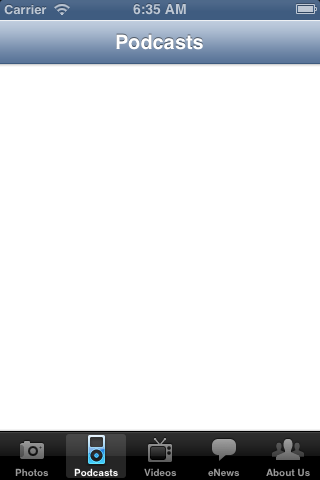
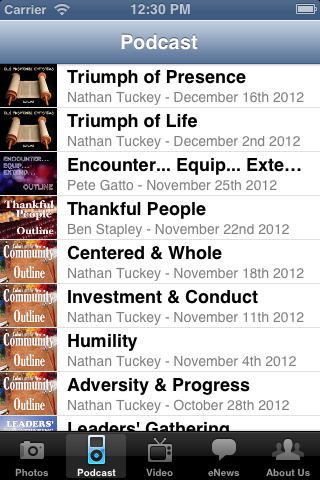
loaded podcasts

diff --git a/South Ridge App iOS/South Ridge App iOS/PodcastViewController.m b/South Ridge App iOS/South Ridge App iOS/PodcastViewController.m
@@ -7,12 +7,14 @@
 //
 
 #import "PodcastViewController.h"
+#import "AFNetworking.h"
 
 @interface PodcastViewController ()
 
 @end
 
 @implementation PodcastViewController
+
 
 - (id)initWithNibName:(NSString *)nibNameOrNil bundle:(NSBundle *)nibBundleOrNil
 {
@@ -28,6 +30,8 @@
 {
     [super viewDidLoad];
 	// Do any additional setup after loading the view, typically from a nib.
+  
+    [self populatePodcasts];
 }
 
 - (void)didReceiveMemoryWarning
@@ -36,4 +40,64 @@
     // Dispose of any resources that can be recreated.
 }
 
+- (UITableViewCell *)tableView:(UITableView *)tableView cellForRowAtIndexPath:(NSIndexPath *)indexPath {
+
+    NSString *cellIdentifier = @"cell";
+    
+    UITableViewCell *cell = [tableView dequeueReusableCellWithIdentifier:cellIdentifier];
+    
+    if (cell == Nil) {
+        cell = [[UITableViewCell alloc] initWithStyle:UITableViewCellStyleSubtitle reuseIdentifier:cellIdentifier];
+    }
+    
+    NSDictionary *item = [podcasts objectAtIndex:indexPath.row];
+    
+    NSString *subText = [item valueForKey:@"Speaker"];
+
+    subText = [subText stringByAppendingString:@" - "];
+    subText = [subText stringByAppendingString:[item valueForKey:@"Date"]];
+    
+    cell.textLabel.text = [item valueForKey:@"Title"];
+    cell.detailTextLabel.text = subText;
+    
+    NSString *imageUrl = @"http://www.southridgecc.org/resources/images/";
+    imageUrl = [imageUrl stringByAppendingString:[item valueForKey:@"Image"]];
+    
+    [cell.imageView setImageWithURL: [NSURL URLWithString:imageUrl] placeholderImage:[UIImage imageNamed:@"podcast.png"]];
+    
+    return cell;
+}
+
+- (NSInteger)tableView:(UITableView *)tableView numberOfRowsInSection:(NSInteger)section {
+    return podcasts.count;
+}
+
+-(NSInteger)numberOfSectionsInTableView:(UITableView *)tableView {
+    return 1;
+}
+
+-(void) populatePodcasts {
+    NSURL *url = [NSURL URLWithString:@"http://dragthor.github.com/southridge/SouthRidgePodcast.json"];
+    
+    NSURLRequest *req = [NSURLRequest requestWithURL:url];
+    
+    AFJSONRequestOperation *operation;
+    
+    operation = [AFJSONRequestOperation JSONRequestOperationWithRequest:req success:^(NSURLRequest *request, NSHTTPURLResponse *response, id JSON) {
+        
+        podcasts = JSON;
+        
+        NSLog(@"podcasts found %d", podcasts.count);
+        
+        [_podcastTable reloadData];
+        
+    } failure:^(NSURLRequest *request, NSHTTPURLResponse *response, NSError *error, id JSON) {
+        NSLog(@"podcast failure. statuscode is %d", response.statusCode);
+        NSLog(@"error - %@", error);
+    }];
+    
+    [operation start];
+}
+
 @end
+

diff --git a/South Ridge App iOS/South Ridge App iOS/PodcastViewController.h b/South Ridge App iOS/South Ridge App iOS/PodcastViewController.h
@@ -8,6 +8,10 @@
 
 #import <UIKit/UIKit.h>
 
-@interface PodcastViewController : UIViewController
+@interface PodcastViewController : UIViewController <UITableViewDataSource, UITableViewDelegate> {
+    NSArray *podcasts;
+}
+
+@property (weak, nonatomic) IBOutlet UITableView *podcastTable;
 
 @end
